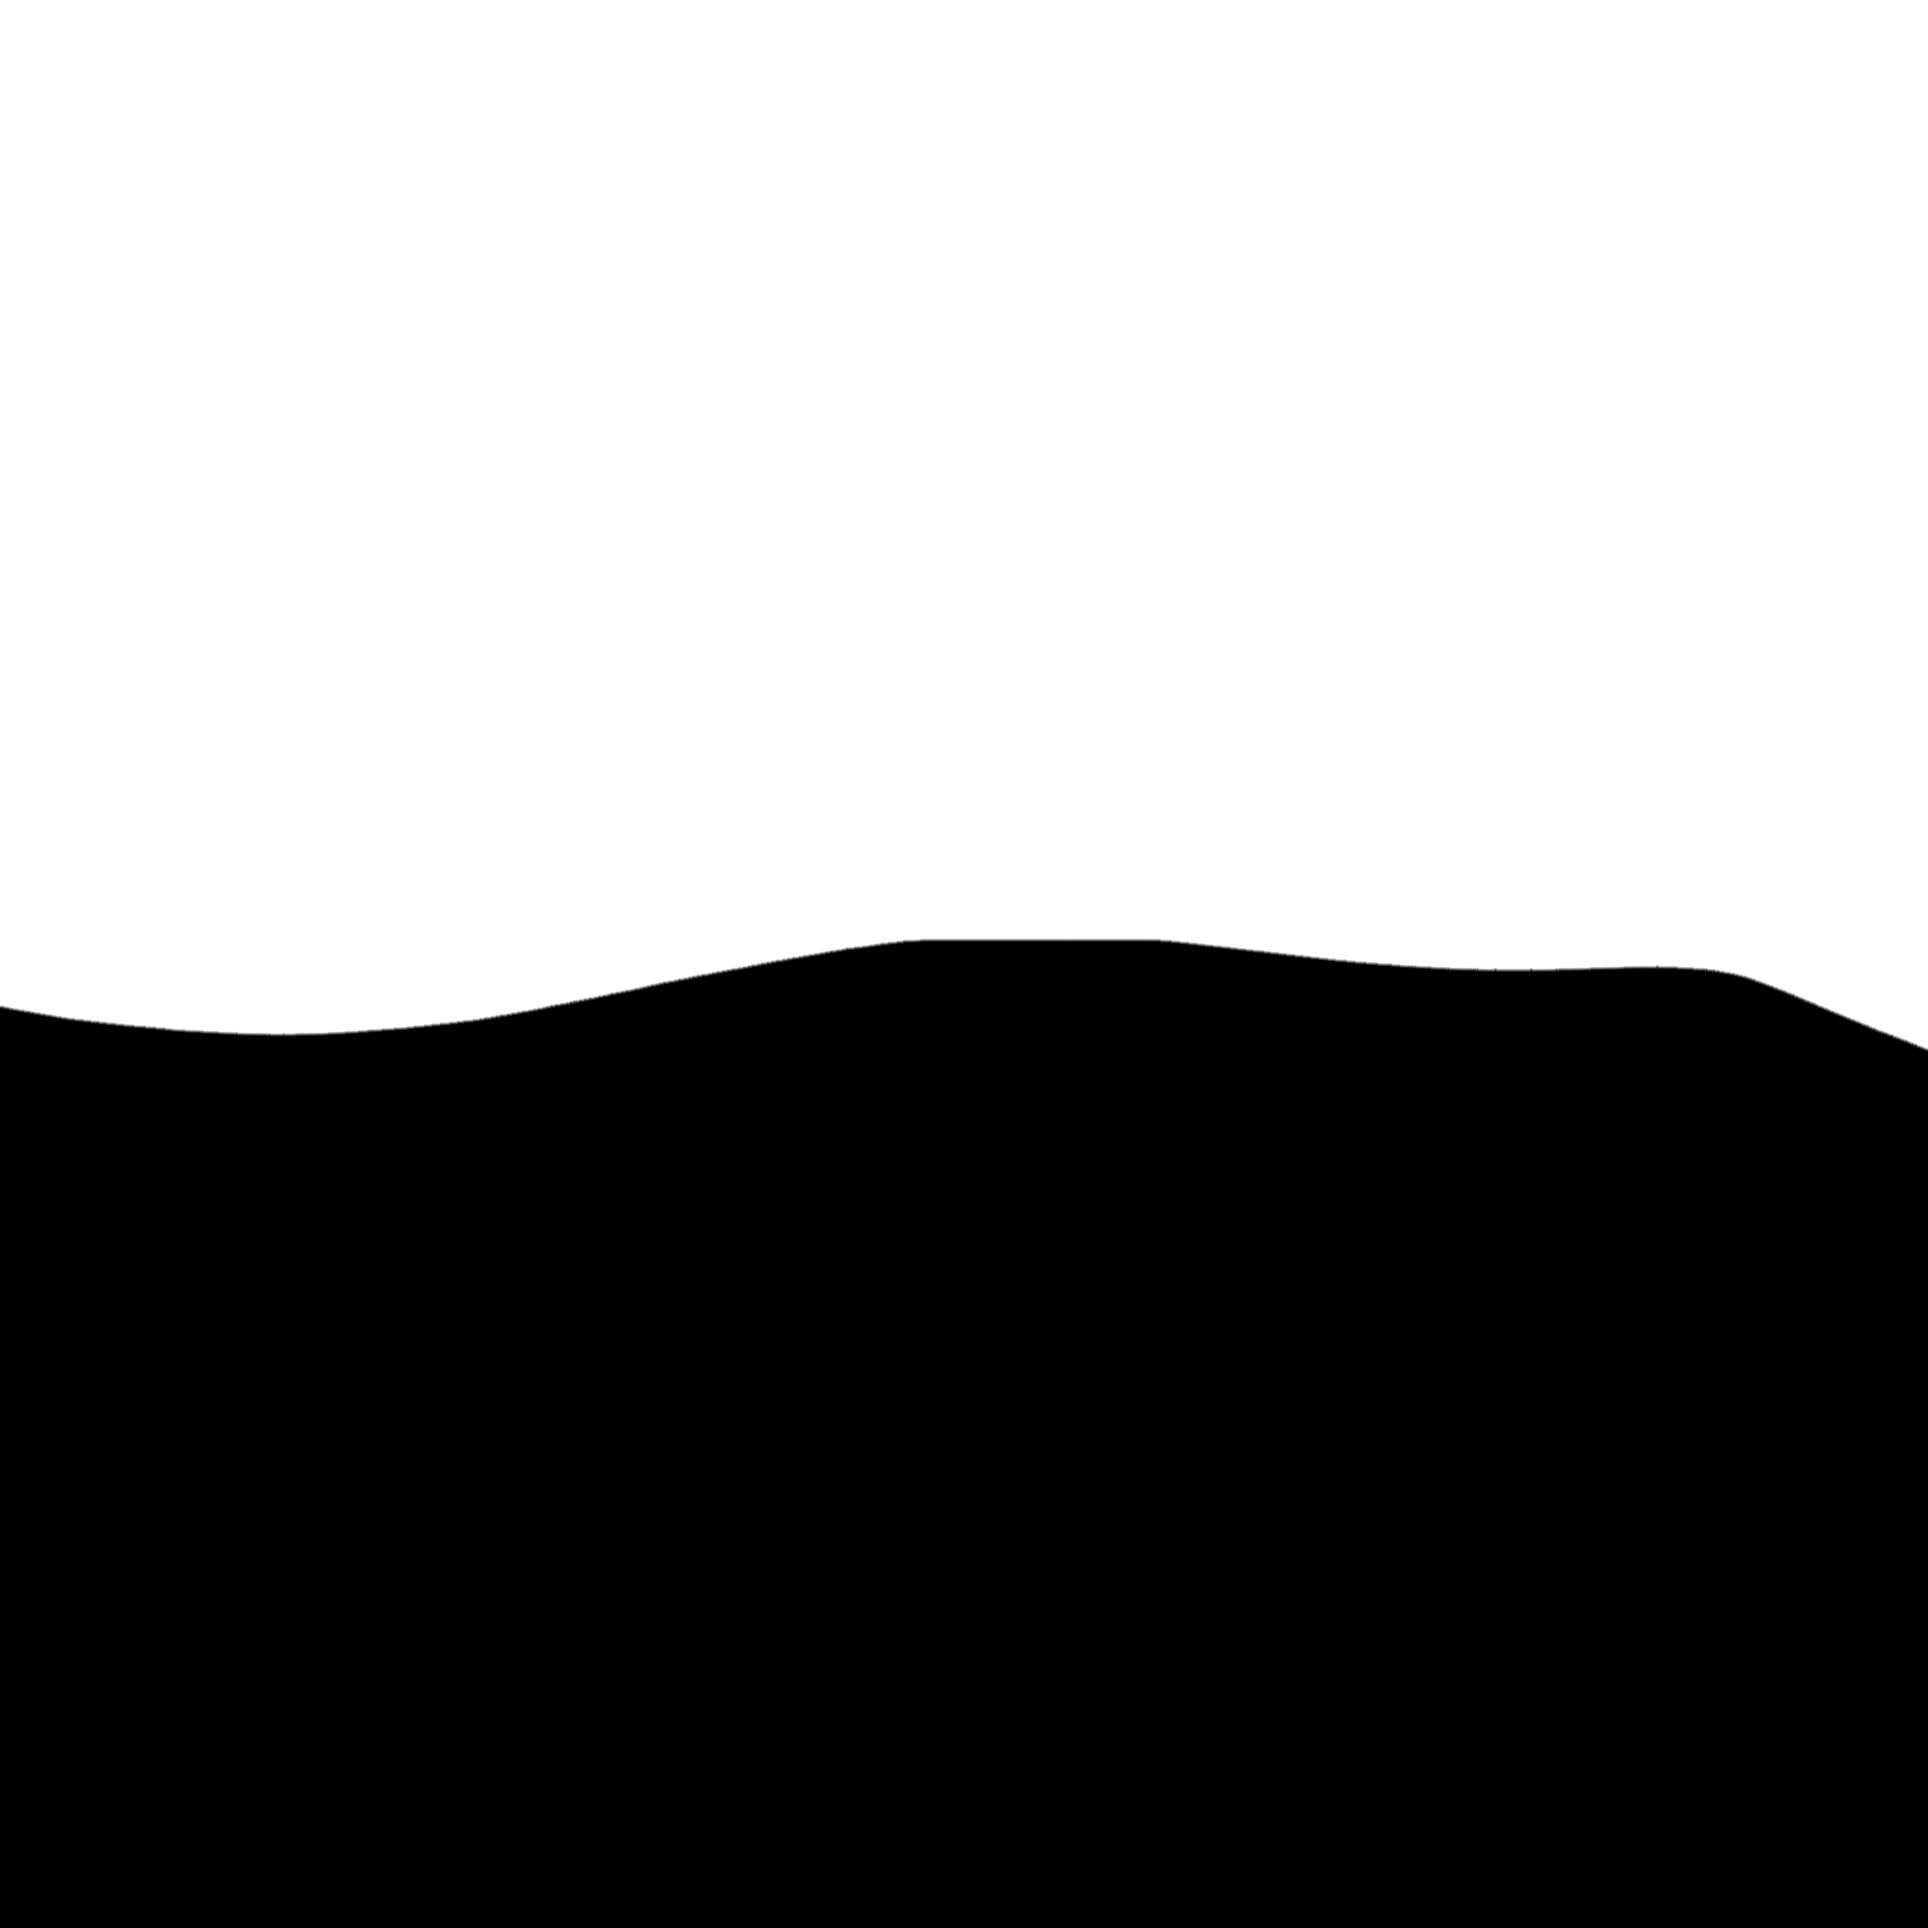
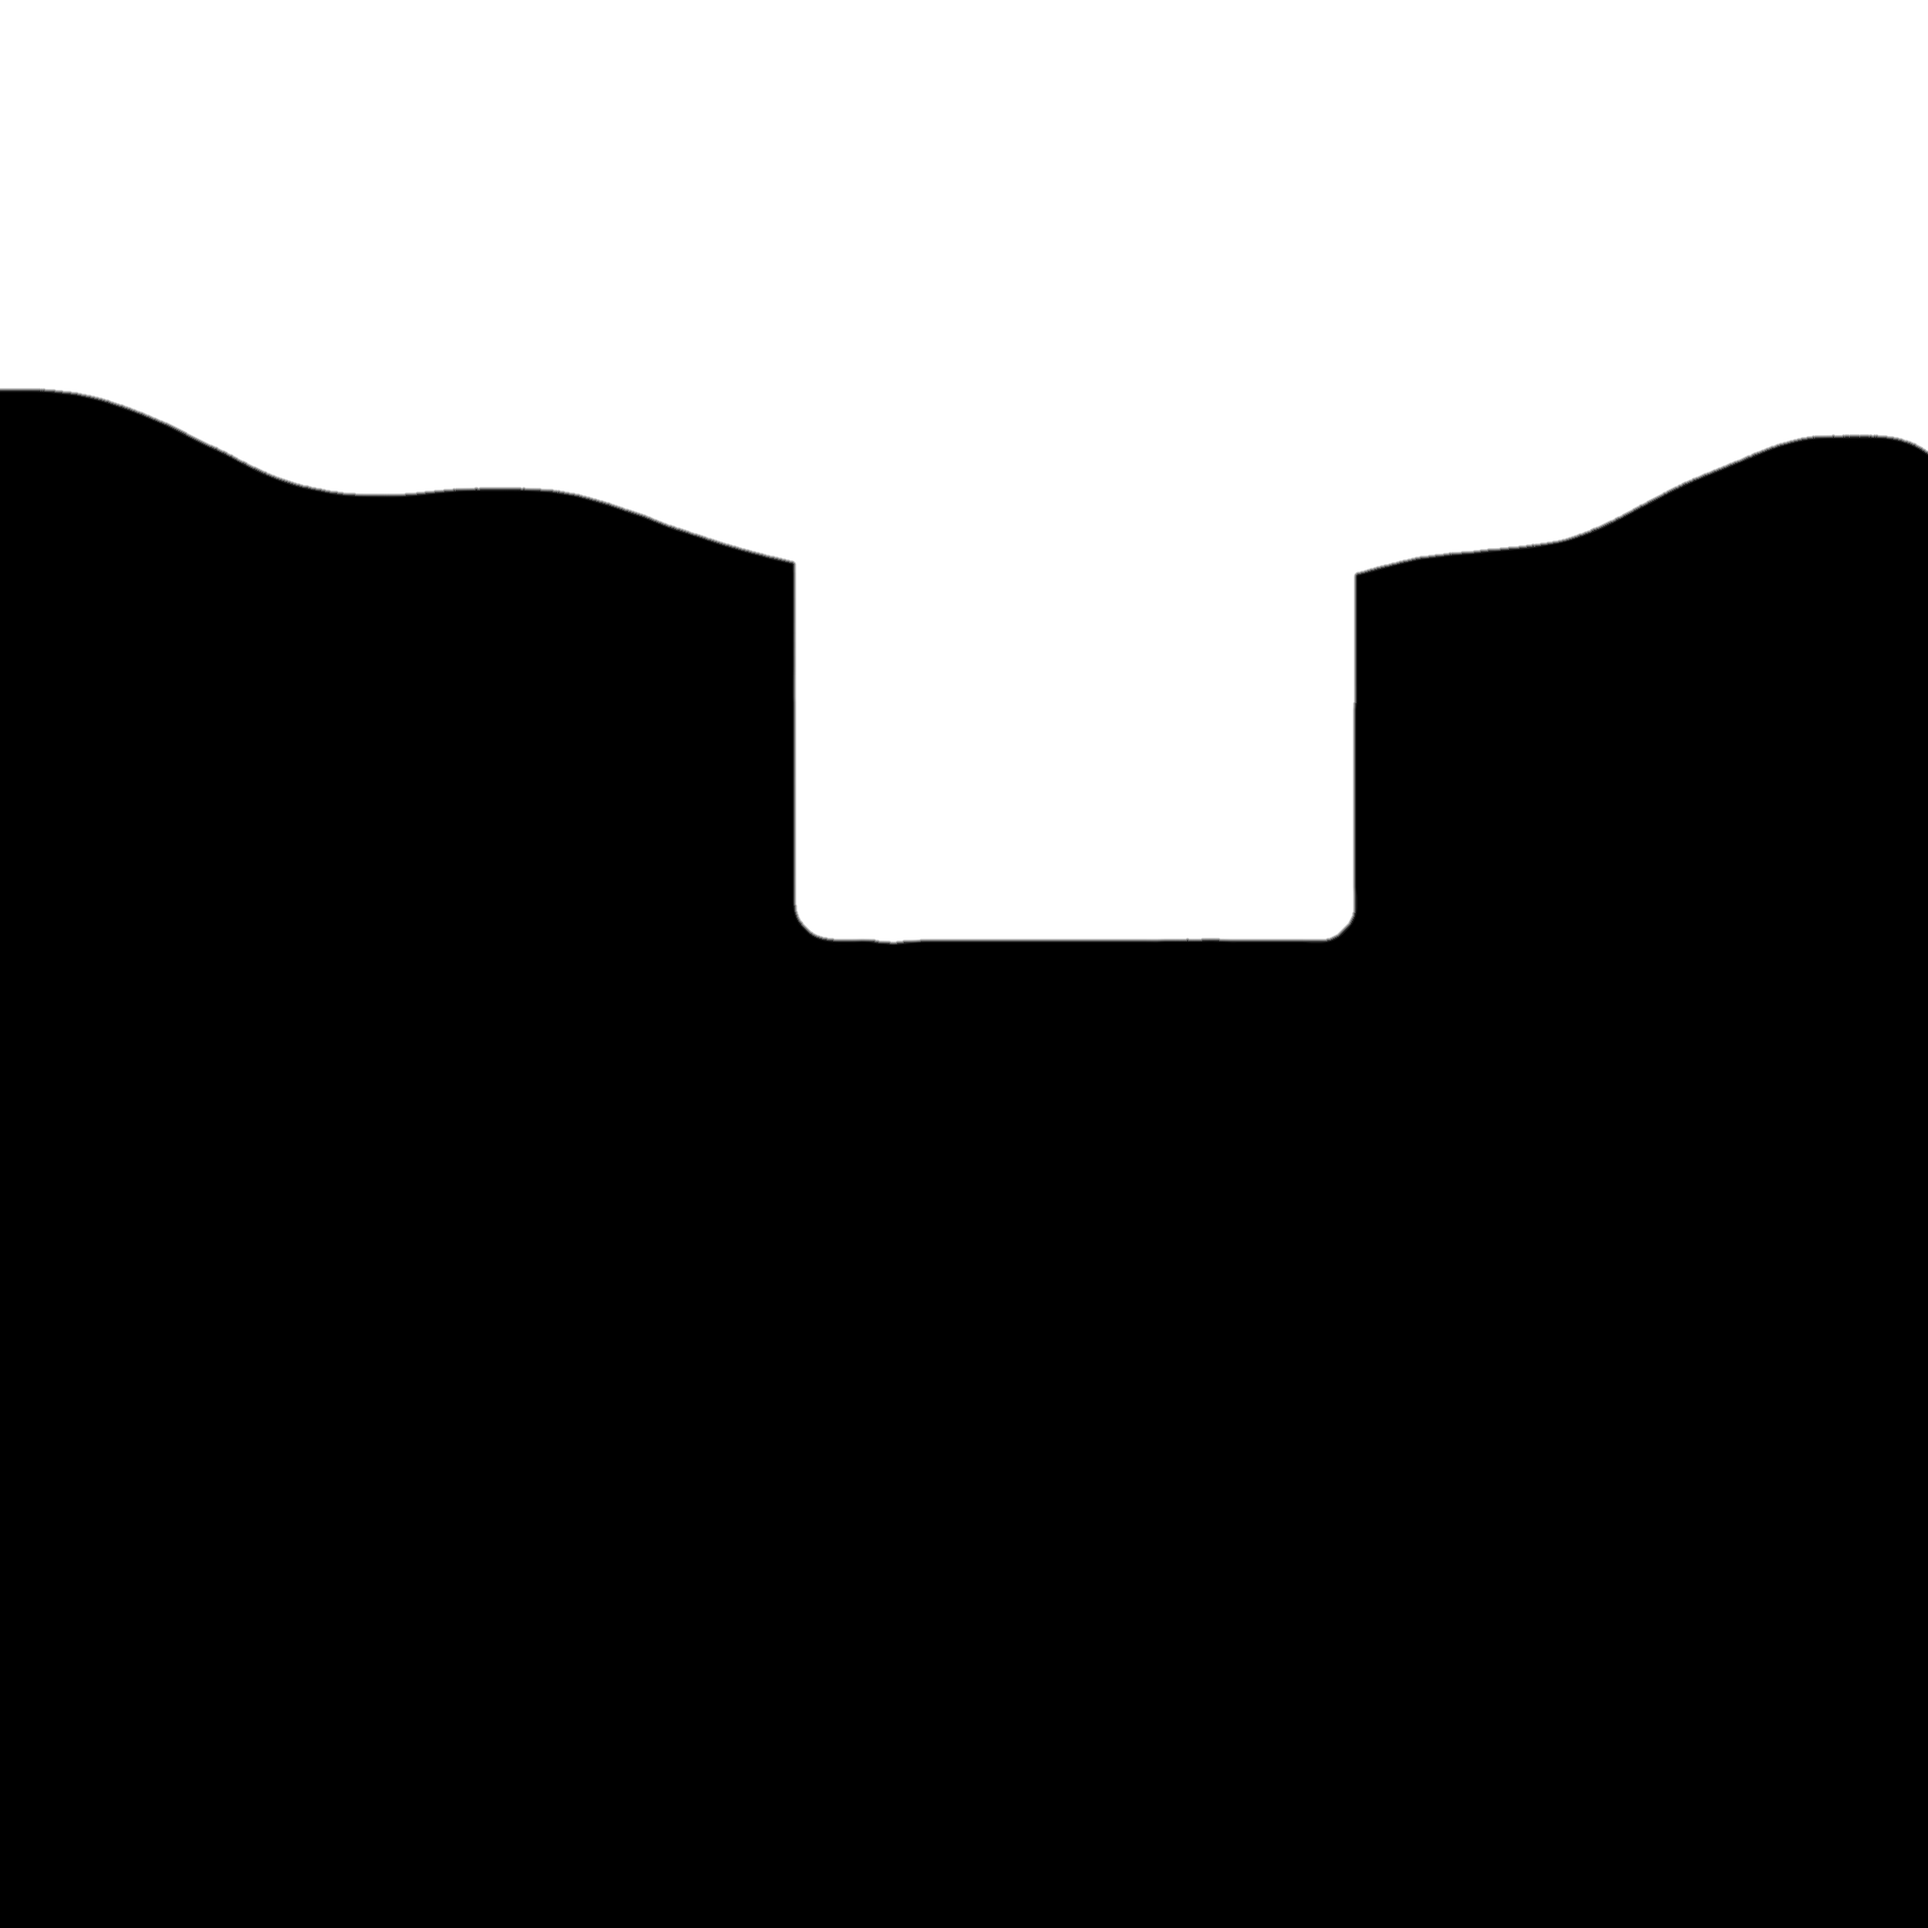
Implement different background

Changed region(s): [[0.0, 0.1875, 0.4688, 0.5625], [0.625, 0.2188, 1.0, 0.5625]]

diff --git a/code/BombSurvival.Terrain.cs b/code/BombSurvival.Terrain.cs
@@ -3,7 +3,8 @@
 public partial class BombSurvival
 {
 	public static string CurrentLevel { get; set; } = "house";
-	public static Sdf2DWorld Terrain { get; set; }
+	public static Sdf2DWorld Foreground { get; set; }
+	public static Sdf2DWorld Background { get; set; }
 	public static Sdf2DLayer GrassForeground => ResourceLibrary.Get<Sdf2DLayer>( "sdflayers/grass_foreground.sdflayer" );
 	public static Sdf2DLayer WoodForeground => ResourceLibrary.Get<Sdf2DLayer>( "sdflayers/wood_foreground.sdflayer" );
 	public static Sdf2DLayer DirtForeground => ResourceLibrary.Get<Sdf2DLayer>( "sdflayers/dirt_foreground.sdflayer" );
@@ -22,18 +23,33 @@ public partial class BombSurvival
 	[ConCmd.Admin( "regenerate_terrain" )]
 	public static void GenerateLevel()
 	{
-		Terrain?.ClearAsync();
-		Terrain ??= new Sdf2DWorld
+		Foreground?.ClearAsync();
+		Foreground ??= new Sdf2DWorld
 		{
 			LocalRotation = Rotation.FromRoll( 90f )
 		};
-		var terrainSdf = new TextureSdf( GrassForegroundTexture, 4, GrassForegroundTexture.Width );
-		var houseSdf = new TextureSdf( WoodForegroundTexture, 4, WoodForegroundTexture.Width );
-		var groundSdf = new TextureSdf( DirtForegroundTexture, 4, DirtForegroundTexture.Width );
 
-		Terrain?.AddAsync( terrainSdf, GrassForeground );
-		Terrain?.AddAsync( houseSdf, WoodForeground );
-		Terrain?.AddAsync( groundSdf, DirtForeground );
+		var grassForeground = new TextureSdf( GrassForegroundTexture, 4, GrassForegroundTexture.Width );
+		var woodForeground = new TextureSdf( WoodForegroundTexture, 4, WoodForegroundTexture.Width );
+		var dirtForeground = new TextureSdf( DirtForegroundTexture, 4, DirtForegroundTexture.Width );
+
+		Foreground?.AddAsync( grassForeground, GrassForeground );
+		Foreground?.AddAsync( woodForeground, WoodForeground );
+		Foreground?.AddAsync( dirtForeground, DirtForeground );
+
+		Background?.ClearAsync();
+		Background ??= new Sdf2DWorld
+		{
+			LocalRotation = Rotation.FromRoll( 90f )
+		};
+
+		var grassBackground = new TextureSdf( GrassBackgroundTexture, 4, GrassBackgroundTexture.Width );
+		var woodBackground = new TextureSdf( WoodBackgroundTexture, 4, WoodBackgroundTexture.Width );
+		var dirtBackground = new TextureSdf( DirtBackgroundTexture, 4, DirtBackgroundTexture.Width );
+
+		Background?.AddAsync( grassBackground, GrassBackground );
+		Background?.AddAsync( woodBackground, WoodBackground );
+		Background?.AddAsync( dirtBackground, DirtBackground );
 
 		GameTask.RunInThreadAsync( async () =>
 		{
@@ -44,30 +60,33 @@ public partial class BombSurvival
 
 	public static Vector2 PointToLocal( Vector3 point )
 	{
-		var localPosition = Terrain.Transform.PointToLocal( point );
+		var localPosition = Foreground.Transform.PointToLocal( point );
 		return new Vector2( localPosition.x, localPosition.y );
 	}
 
 	public static Vector3 PointToWorld( Vector2 point )
 	{
-		var worldPosition = Terrain.Transform.PointToWorld( point );
-		return new Vector3( worldPosition.x, Terrain.Position.y, worldPosition.z );
+		var worldPosition = Foreground.Transform.PointToWorld( point );
+		return new Vector3( worldPosition.x, Foreground.Position.y, worldPosition.z );
 	}
 
-	public static void AddCircle( Vector2 position, float radius, Sdf2DLayer layer ) => Terrain?.AddAsync( new CircleSdf( position, radius ), layer );
-	public static void AddCircle( Vector3 position, float radius, Sdf2DLayer layer ) => AddCircle( PointToLocal( position ), radius, layer );
-	public static void CarveCircle( Vector2 position, float radius ) => Terrain?.SubtractAsync( new CircleSdf( position, radius ) );
-	public static void CarveCircle( Vector3 position, float radius ) => CarveCircle( PointToLocal( position ), radius );
+	public static void AddCircle( Sdf2DWorld world, Vector2 position, float radius, Sdf2DLayer layer ) => world?.AddAsync( new CircleSdf( position, radius ), layer );
+	public static void AddCircle( Sdf2DWorld world, Vector3 position, float radius, Sdf2DLayer layer ) => AddCircle( world, PointToLocal( position ), radius, layer );
+	public static void CarveCircle( Sdf2DWorld world, Vector2 position, float radius ) => world?.SubtractAsync( new CircleSdf( position, radius ) );
+	public static void CarveCircle( Sdf2DWorld world, Vector3 position, float radius ) => CarveCircle( world, PointToLocal( position ), radius );
 
-	public static void AddBox( Vector2 min, Vector2 max, Sdf2DLayer layer, float cornerRadius = 0f ) => Terrain?.AddAsync( new RectSdf( min, max, cornerRadius ), layer );
-	public static void AddBox( Vector3 min, Vector3 max, Sdf2DLayer layer, float cornerRadius = 0f ) => AddBox( PointToLocal( min ), PointToLocal( max ), layer, cornerRadius );
-	public static void CarveBox( Vector2 min, Vector2 max, float cornerRadius = 0f ) => Terrain?.SubtractAsync( new RectSdf( min, max, cornerRadius ) );
-	public static void CarveBox( Vector3 min, Vector3 max, float cornerRadius = 0f ) => CarveBox( PointToLocal( min ), PointToLocal( max ), cornerRadius );
+	public static void AddBox( Sdf2DWorld world, Vector2 min, Vector2 max, Sdf2DLayer layer, float cornerRadius = 0f ) => world?.AddAsync( new RectSdf( min, max, cornerRadius ), layer );
+	public static void AddBox( Sdf2DWorld world, Vector3 min, Vector3 max, Sdf2DLayer layer, float cornerRadius = 0f ) => AddBox( world, PointToLocal( min ), PointToLocal( max ), layer, cornerRadius );
+	public static void CarveBox( Sdf2DWorld world, Vector2 min, Vector2 max, float cornerRadius = 0f ) => world?.SubtractAsync( new RectSdf( min, max, cornerRadius ) );
+	public static void CarveBox( Sdf2DWorld world, Vector3 min, Vector3 max, float cornerRadius = 0f ) => CarveBox( world, PointToLocal( min ), PointToLocal( max ), cornerRadius );
 
 	public static void Explosion( Vector3 position, float size = 75f, float charSize = 100f )
 	{
-		CarveCircle( position, size );
-		AddCircle( position, charSize, ScorchForeground );
+		CarveCircle( Foreground, position, size );
+		AddCircle( Foreground, position, charSize, ScorchForeground );
+
+		CarveCircle( Background, position, size * 0.6f );
+		AddCircle( Background, position, charSize * 0.8f, ScorchBackground );
 
 		Particles.Create( "particles/explosion.vpcf", position )
 			.Set( "size", charSize );
